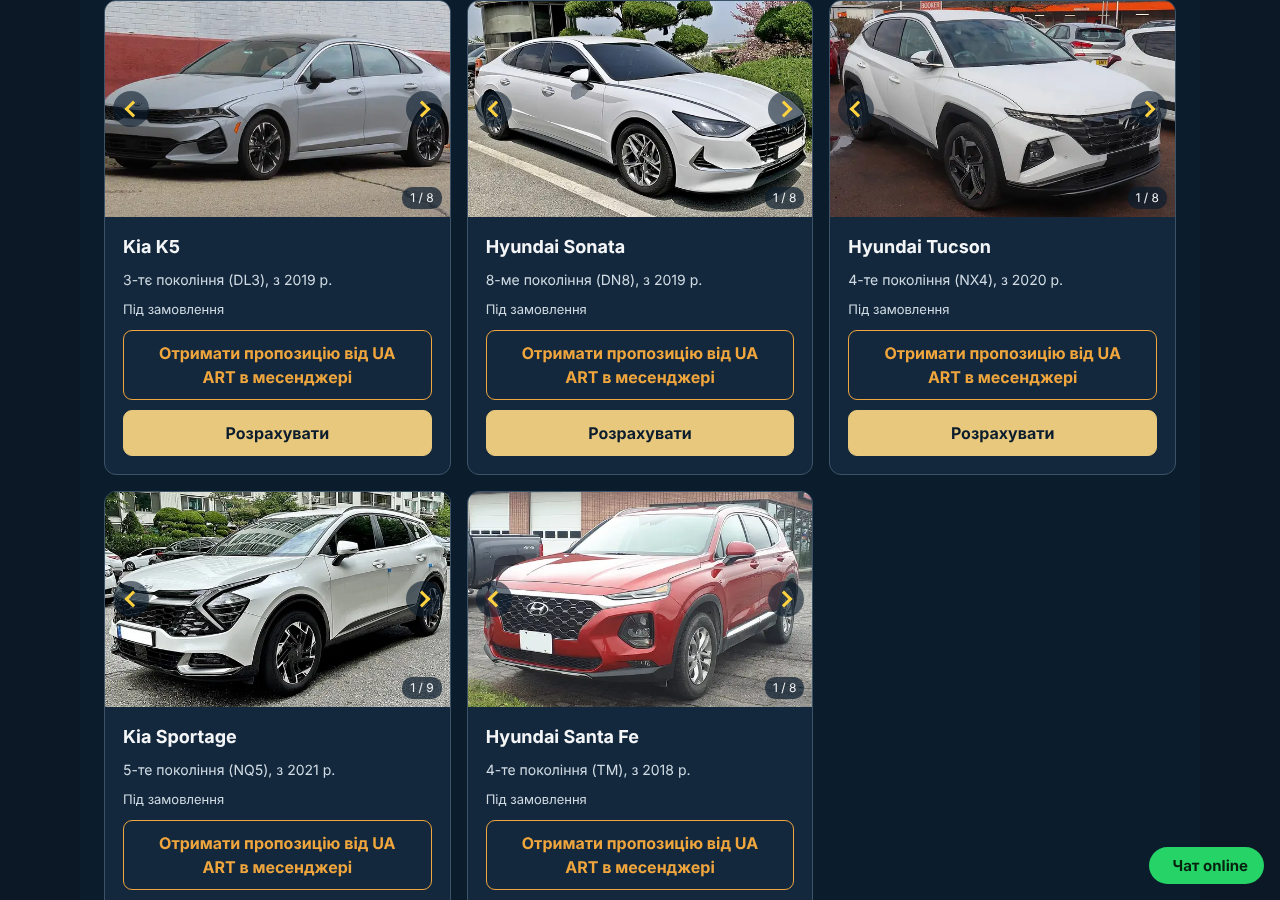
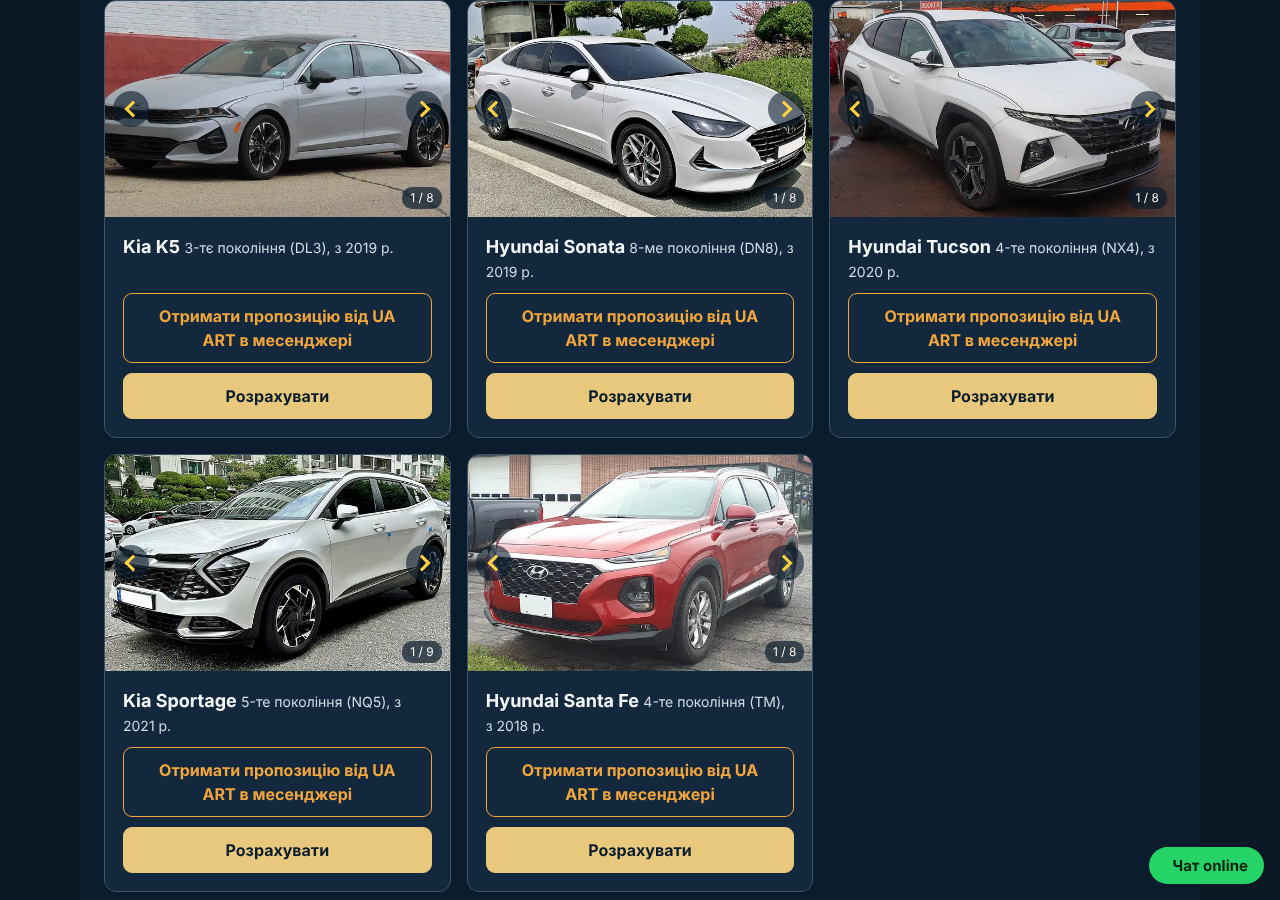
MODEL-GALLERY-001: generation continues the model name, no «under order» tag on gallery cards, larger phone photo; preview R5 request
Claude-Session: https://claude.ai/code/session_0172XcuYMDyo6BFAXzekqysj

diff --git a/cloud/model_gallery_install_001/site/gallery.css b/cloud/model_gallery_install_001/site/gallery.css
@@ -15,20 +15,18 @@
 .ua-order .gallery-prev::after { left:22px; transform:rotate(135deg); }
 .ua-order .gallery-next::after { right:22px; transform:rotate(-45deg); }
 .ua-order .gallery-count { position:absolute; right:8px; bottom:8px; padding:2px 8px; border-radius:10px; background:rgba(11,28,45,.7); color:#f4f5f7; font-size:12px; line-height:1.5; pointer-events:none; }
-.ua-order .model .generation { font-size:14px; color:#d0dbe3; }
-/* Phones (the site's own 640px breakpoint): name, generation and tag on top across the card;
-   below them the photo on the left and the card's buttons stacked on the right, one square block. */
+.ua-order .model h3 .generation { font-size:14px; font-weight:400; color:#d0dbe3; }
+/* Phones (the site's own 640px breakpoint): the name with its generation on top across the card;
+   below it the larger photo on the left and the card's buttons stacked on the right, one block. */
 @media(max-width:640px) {
- .ua-order .model:has(> .model-media > .gallery) { display:grid; grid-template-columns:minmax(0,1fr) minmax(0,1fr); column-gap:10px; row-gap:6px; padding:12px; }
+ .ua-order .model:has(> .model-media > .gallery) { display:grid; grid-template-columns:minmax(0,3fr) minmax(0,2fr); column-gap:10px; row-gap:8px; padding:12px; }
  .ua-order .model:has(> .model-media > .gallery) > .model-info { display:contents; }
  .ua-order .model:has(> .model-media > .gallery) h3 { grid-row:1; grid-column:1 / -1; }
- .ua-order .model:has(> .model-media > .gallery) .generation { grid-row:2; grid-column:1 / -1; }
- .ua-order .model:has(> .model-media > .gallery) .tag { grid-row:3; grid-column:1 / -1; }
- .ua-order .model-media:has(> .gallery) { grid-row:4 / span 2; grid-column:1; width:auto; min-height:0; aspect-ratio:4/3; border-radius:8px; margin-top:4px; }
- .ua-order .model:has(> .model-media > .gallery) .model-info > button { grid-column:2; margin-top:0; padding:6px 8px; font-size:14px; line-height:1.3; }
- .ua-order .model:has(> .model-media > .gallery) .model-info > button:nth-last-of-type(2) { grid-row:4; margin-top:4px; }
- .ua-order .model:has(> .model-media > .gallery) .model-info > button:last-of-type { grid-row:5; }
- .ua-order .model:has(> .model-media > .gallery) .model-info > button:only-of-type { grid-row:4 / span 2; align-self:end; }
+ .ua-order .model-media:has(> .gallery) { grid-row:2 / span 2; grid-column:1; width:auto; min-height:0; aspect-ratio:4/3; border-radius:8px; }
+ .ua-order .model:has(> .model-media > .gallery) .model-info > button { grid-column:2; margin-top:0; padding:6px 8px; font-size:13px; line-height:1.3; }
+ .ua-order .model:has(> .model-media > .gallery) .model-info > button:nth-last-of-type(2) { grid-row:2; }
+ .ua-order .model:has(> .model-media > .gallery) .model-info > button:last-of-type { grid-row:3; }
+ .ua-order .model:has(> .model-media > .gallery) .model-info > button:only-of-type { grid-row:2 / span 2; align-self:end; }
  .ua-order .gallery > button::before { width:30px; height:30px; margin-top:-15px; }
  .ua-order .gallery > button::after { width:10px; height:10px; margin-top:-5px; }
  .ua-order .gallery-prev::before { left:6px; } .ua-order .gallery-next::before { right:6px; }

diff --git a/cloud/model_gallery_install_001/gallery_assets.py b/cloud/model_gallery_install_001/gallery_assets.py
@@ -2,7 +2,7 @@
 PHOTO_MODULES = ('photos_a', 'photos_b', 'photos_c', 'photos_d', 'photos_e', 'photos_f', 'photos_g', 'photos_h', 'photos_i', 'photos_j', 'photos_k', 'photos_l', 'photos_m', 'photos_n')
 FILES = {
     'video/order/gallery.css': (
-        ".ua-order .gallery { position:relative; place-self:stretch; overflow:hidden; }\n.ua-order .gallery img { position:absolute; inset:0; width:100%; height:100%; object-fit:cover; }\n.ua-order .gallery .gallery-in { animation:ua-gallery-in .25s ease-out; }\n@keyframes ua-gallery-in { from { opacity:.35; } to { opacity:1; } }\n@media (prefers-reduced-motion:reduce) { .ua-order .gallery .gallery-in { animation:none; } }\n.ua-order .gallery > button { position:absolute; top:0; bottom:0; width:50%; min-height:0; margin:0; padding:0; border:0; border-radius:0; background:transparent; }\n.ua-order .gallery > button:focus-visible { outline-offset:-3px; }\n.ua-order .gallery > button::before { content:''; position:absolute; top:50%; width:36px; height:36px; margin-top:-18px; border-radius:50%; background:rgba(11,28,45,.6); transition:background .15s; }\n.ua-order .gallery > button:hover::before { background:rgba(11,28,45,.85); }\n.ua-order .gallery > button::after { content:''; position:absolute; top:50%; width:12px; height:12px; margin-top:-6px; border:solid #ffd23f; border-width:0 3px 3px 0; }\n.ua-order .gallery-prev { left:0; }\n.ua-order .gallery-next { right:0; }\n.ua-order .gallery-prev::before { left:8px; }\n.ua-order .gallery-next::before { right:8px; }\n.ua-order .gallery-prev::after { left:22px; transform:rotate(135deg); }\n.ua-order .gallery-next::after { right:22px; transform:rotate(-45deg); }\n.ua-order .gallery-count { position:absolute; right:8px; bottom:8px; padding:2px 8px; border-radius:10px; background:rgba(11,28,45,.7); color:#f4f5f7; font-size:12px; line-height:1.5; pointer-events:none; }\n.ua-order .model .generation { font-size:14px; color:#d0dbe3; }\n/* Phones (the site's own 640px breakpoint): name, generation and tag on top across the card;\n   below them the photo on the left and the card's buttons stacked on the right, one square block. */\n@media(max-width:640px) {\n .ua-order .model:has(> .model-media > .gallery) { display:grid; grid-template-columns:minmax(0,1fr) minmax(0,1fr); column-gap:10px; row-gap:6px; padding:12px; }\n .ua-order .model:has(> .model-media > .gallery) > .model-info { display:contents; }\n .ua-order .model:has(> .model-media > .gallery) h3 { grid-row:1; grid-column:1 / -1; }\n .ua-order .model:has(> .model-media > .gallery) .generation { grid-row:2; grid-column:1 / -1; }\n .ua-order .model:has(> .model-media > .gallery) .tag { grid-row:3; grid-column:1 / -1; }\n .ua-order .model-media:has(> .gallery) { grid-row:4 / span 2; grid-column:1; width:auto; min-height:0; aspect-ratio:4/3; border-radius:8px; margin-top:4px; }\n .ua-order .model:has(> .model-media > .gallery) .model-info > button { grid-column:2; margin-top:0; padding:6px 8px; font-size:14px; line-height:1.3; }\n .ua-order .model:has(> .model-media > .gallery) .model-info > button:nth-last-of-type(2) { grid-row:4; margin-top:4px; }\n .ua-order .model:has(> .model-media > .gallery) .model-info > button:last-of-type { grid-row:5; }\n .ua-order .model:has(> .model-media > .gallery) .model-info > button:only-of-type { grid-row:4 / span 2; align-self:end; }\n .ua-order .gallery > button::before { width:30px; height:30px; margin-top:-15px; }\n .ua-order .gallery > button::after { width:10px; height:10px; margin-top:-5px; }\n .ua-order .gallery-prev::before { left:6px; } .ua-order .gallery-next::before { right:6px; }\n .ua-order .gallery-prev::after { left:18px; } .ua-order .gallery-next::after { right:18px; }\n .ua-order .gallery-count { right:6px; bottom:6px; font-size:11px; padding:1px 6px; }\n}\n"
+        ".ua-order .gallery { position:relative; place-self:stretch; overflow:hidden; }\n.ua-order .gallery img { position:absolute; inset:0; width:100%; height:100%; object-fit:cover; }\n.ua-order .gallery .gallery-in { animation:ua-gallery-in .25s ease-out; }\n@keyframes ua-gallery-in { from { opacity:.35; } to { opacity:1; } }\n@media (prefers-reduced-motion:reduce) { .ua-order .gallery .gallery-in { animation:none; } }\n.ua-order .gallery > button { position:absolute; top:0; bottom:0; width:50%; min-height:0; margin:0; padding:0; border:0; border-radius:0; background:transparent; }\n.ua-order .gallery > button:focus-visible { outline-offset:-3px; }\n.ua-order .gallery > button::before { content:''; position:absolute; top:50%; width:36px; height:36px; margin-top:-18px; border-radius:50%; background:rgba(11,28,45,.6); transition:background .15s; }\n.ua-order .gallery > button:hover::before { background:rgba(11,28,45,.85); }\n.ua-order .gallery > button::after { content:''; position:absolute; top:50%; width:12px; height:12px; margin-top:-6px; border:solid #ffd23f; border-width:0 3px 3px 0; }\n.ua-order .gallery-prev { left:0; }\n.ua-order .gallery-next { right:0; }\n.ua-order .gallery-prev::before { left:8px; }\n.ua-order .gallery-next::before { right:8px; }\n.ua-order .gallery-prev::after { left:22px; transform:rotate(135deg); }\n.ua-order .gallery-next::after { right:22px; transform:rotate(-45deg); }\n.ua-order .gallery-count { position:absolute; right:8px; bottom:8px; padding:2px 8px; border-radius:10px; background:rgba(11,28,45,.7); color:#f4f5f7; font-size:12px; line-height:1.5; pointer-events:none; }\n.ua-order .model h3 .generation { font-size:14px; font-weight:400; color:#d0dbe3; }\n/* Phones (the site's own 640px breakpoint): the name with its generation on top across the card;\n   below it the larger photo on the left and the card's buttons stacked on the right, one block. */\n@media(max-width:640px) {\n .ua-order .model:has(> .model-media > .gallery) { display:grid; grid-template-columns:minmax(0,3fr) minmax(0,2fr); column-gap:10px; row-gap:8px; padding:12px; }\n .ua-order .model:has(> .model-media > .gallery) > .model-info { display:contents; }\n .ua-order .model:has(> .model-media > .gallery) h3 { grid-row:1; grid-column:1 / -1; }\n .ua-order .model-media:has(> .gallery) { grid-row:2 / span 2; grid-column:1; width:auto; min-height:0; aspect-ratio:4/3; border-radius:8px; }\n .ua-order .model:has(> .model-media > .gallery) .model-info > button { grid-column:2; margin-top:0; padding:6px 8px; font-size:13px; line-height:1.3; }\n .ua-order .model:has(> .model-media > .gallery) .model-info > button:nth-last-of-type(2) { grid-row:2; }\n .ua-order .model:has(> .model-media > .gallery) .model-info > button:last-of-type { grid-row:3; }\n .ua-order .model:has(> .model-media > .gallery) .model-info > button:only-of-type { grid-row:2 / span 2; align-self:end; }\n .ua-order .gallery > button::before { width:30px; height:30px; margin-top:-15px; }\n .ua-order .gallery > button::after { width:10px; height:10px; margin-top:-5px; }\n .ua-order .gallery-prev::before { left:6px; } .ua-order .gallery-next::before { right:6px; }\n .ua-order .gallery-prev::after { left:18px; } .ua-order .gallery-next::after { right:18px; }\n .ua-order .gallery-count { right:6px; bottom:6px; font-size:11px; padding:1px 6px; }\n}\n"
     ),
     'video/order/gallery.js': (
         "// Photo switcher of one model card (MODEL-GALLERY-001): the left and right halves of the photo are\n// buttons with yellow arrows; each shows the previous or next photo, wrapping around. A small\n// counter («3 / 9») shows the position; screen readers get it from the photo's alt text.\nexport function gallery(photos, {base, alt, labels, lazy}) {\n  const box=document.createElement('div');\n  box.className='gallery';\n  box.setAttribute('role','group');\n  box.setAttribute('aria-roledescription',labels.gallery);\n  box.setAttribute('aria-label',alt);\n  const img=document.createElement('img');\n  img.decoding='async';img.loading=lazy?'lazy':'eager';\n  const count=document.createElement('span');\n  count.className='gallery-count';count.setAttribute('aria-hidden','true');\n  let index=0;\n  const url=i=>new URL(photos[i].path,base);\n  function show(next) {\n    index=(next+photos.length)%photos.length;\n    const photo=photos[index];\n    img.src=url(index);img.width=photo.width;img.height=photo.height;\n    img.alt=`${alt} — ${index+1}/${photos.length}`;\n    count.textContent=`${index+1} / ${photos.length}`;\n  }\n  show(0);\n  box.append(img);\n  if(photos.length<2) return box;\n  box.append(count);\n  for(const [step,side,label] of [[-1,'prev',labels.prev],[1,'next',labels.next]]) {\n    const button=document.createElement('button');\n    button.type='button';button.className=`gallery-${side}`;button.setAttribute('aria-label',label);\n    button.addEventListener('click',()=>{\n      img.classList.remove('gallery-in');void img.offsetWidth;img.classList.add('gallery-in');\n      show(index+step);\n      new Image().src=url((index+step+photos.length)%photos.length);\n    });\n    box.append(button);\n  }\n  return box;\n}\n"

diff --git a/cloud/model_gallery_install_001/edit_order.py b/cloud/model_gallery_install_001/edit_order.py
@@ -3,7 +3,7 @@
 Owner request 2026-10-26. New files (gallery.js, gallery.css, model-gallery.json, photos) come from
 this package; the existing files get only these small edits. order.js loads model-gallery.json next
 to its strings; when it is missing or fails, the model cards stay exactly as before. A model with
-gallery data shows the photo switcher and its generation under the name. Built on top of the live
+gallery data shows the photo switcher, its generation after the name and no «under order» tag. Built on top of the live
 PODBOR-MODEL-001 files; the order.js version on the page is replaced whatever it is (another release may
 have raised it), so browsers load the new module. Each original fragment must occur exactly once and
 an applied fragment is refused.
@@ -45,9 +45,11 @@ EDITS = {
          "      labels:{gallery:t('gallery'),prev:t('photo_prev'),next:t('photo_next')}}));\n"
          "    else if(model.media.approval==='approved' && model.media.path) {\n"),
         ("    info.append(node('h3',model.labels[state.lang]),node('span',t('under_order'),'tag'));\n",
-         "    info.append(node('h3',model.labels[state.lang]));\n"
-         "    if(extra) info.append(node('span',extra.generation[state.lang],'generation'));\n"
-         "    info.append(node('span',t('under_order'),'tag'));\n"),
+         "    // A card with gallery data: the generation continues the name; «under order» is the page title already.\n"
+         "    const title=node('h3',model.labels[state.lang]);\n"
+         "    if(extra) title.append(' ',node('span',extra.generation[state.lang],'generation'));\n"
+         "    info.append(title);\n"
+         "    if(!extra) info.append(node('span',t('under_order'),'tag'));\n"),
         ("  const [bootstrap,strings]=await Promise.all([fetch('/api/orders/bootstrap',{credentials:'same-origin'}),"
          "fetch(new URL('order-strings.json'+new URL(import.meta.url).search,assets)),pageReady]);\n",
          "  // Gallery data is optional: without it the model cards keep their single photo.\n"

diff --git a/cloud/model_gallery_install_001/release_constants.py b/cloud/model_gallery_install_001/release_constants.py
@@ -1,5 +1,5 @@
 """Order page model gallery release (MODEL-GALLERY-001); no private source in this package."""
 # One place for the task names: make_release.py writes the requests, the controller accepts only these.
-PREVIEW_TASK = 'MODEL-GALLERY-PREFLIGHT-20261027-R4'
-INSTALL_TASK = 'MODEL-GALLERY-INSTALL-20261027-R4'
+PREVIEW_TASK = 'MODEL-GALLERY-PREFLIGHT-20261027-R5'
+INSTALL_TASK = 'MODEL-GALLERY-INSTALL-20261027-R5'
 PACKAGE = 'cloud/model_gallery_install_001'
